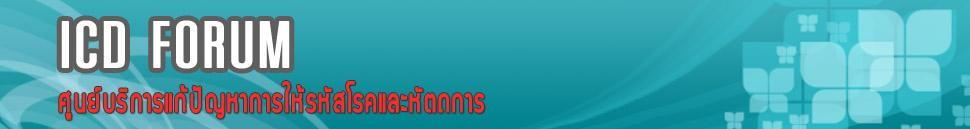
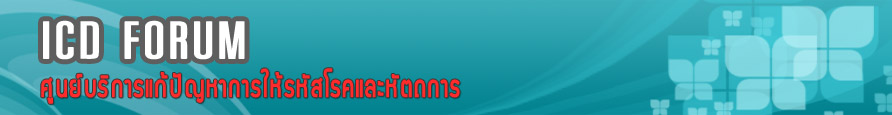
change images, add paginate to qandas and fix bugs

diff --git a/app/assets/stylesheets/application.css b/app/assets/stylesheets/application.css
@@ -6,7 +6,10 @@
  *= require_tree . 
 */
 
-body { padding: 20px; }
+body { 
+  padding: 20px;
+  width: 892px;
+}
   
 .navbar-search {
     position: relative;
@@ -66,7 +69,7 @@ body { padding: 20px; }
 
 .image-3 {
   height: 127px;
-  width: 770px;
+  width: 892px;
   background: url(assets/header_forum.jpg);
 }
 

diff --git a/app/assets/stylesheets/scaffolds.css.scss b/app/assets/stylesheets/scaffolds.css.scss
@@ -3,7 +3,9 @@ body {
   color: #333;
   font-family: verdana, arial, helvetica, sans-serif;
   font-size: 13px;
-  line-height: 18px; }
+  line-height: 18px;
+  width: 892px;
+}
 
 p, ol, ul, td {
   font-family: verdana, arial, helvetica, sans-serif;

diff --git a/app/controllers/qandas_controller.rb b/app/controllers/qandas_controller.rb
@@ -3,15 +3,15 @@ class QandasController < ApplicationController
   # GET /qandas.json
   def index
     if admin?
-      @qandas = Qanda.unanswered
+      @qandas = Qanda.unanswered.page(params[:page]).per(5).order("id DESC")
     elsif consultant?
       @qandas = Qanda.where(:qa_consultant => @current_user.id).unanswered
     elsif member?
-      @qandas = Qanda.where(:user_id => @current_user.id)
+      @qandas = Qanda.where(:user_id => @current_user.id).page(params[:page])
     else
-      @qandas = Qanda.all
+      @qandas = Qanda.all.page(params[:page])
     end
-
+    
     respond_to do |format|
       format.html # index.html.erb
       format.json { render :json => @qandas }

diff --git a/app/controllers/users_controller.rb b/app/controllers/users_controller.rb
@@ -24,9 +24,9 @@ class UsersController < ApplicationController
     @user = User.new(params[:user])
     if @user.save
       session[:user_id] = @user.id
-      if user.role == 'admin'
+      if @user.role == 'admin'
         url = users_path
-      elsif user.role == 'consult'
+      elsif @user.role == 'consult'
         url = qandas_path
       else
         url = root_url
